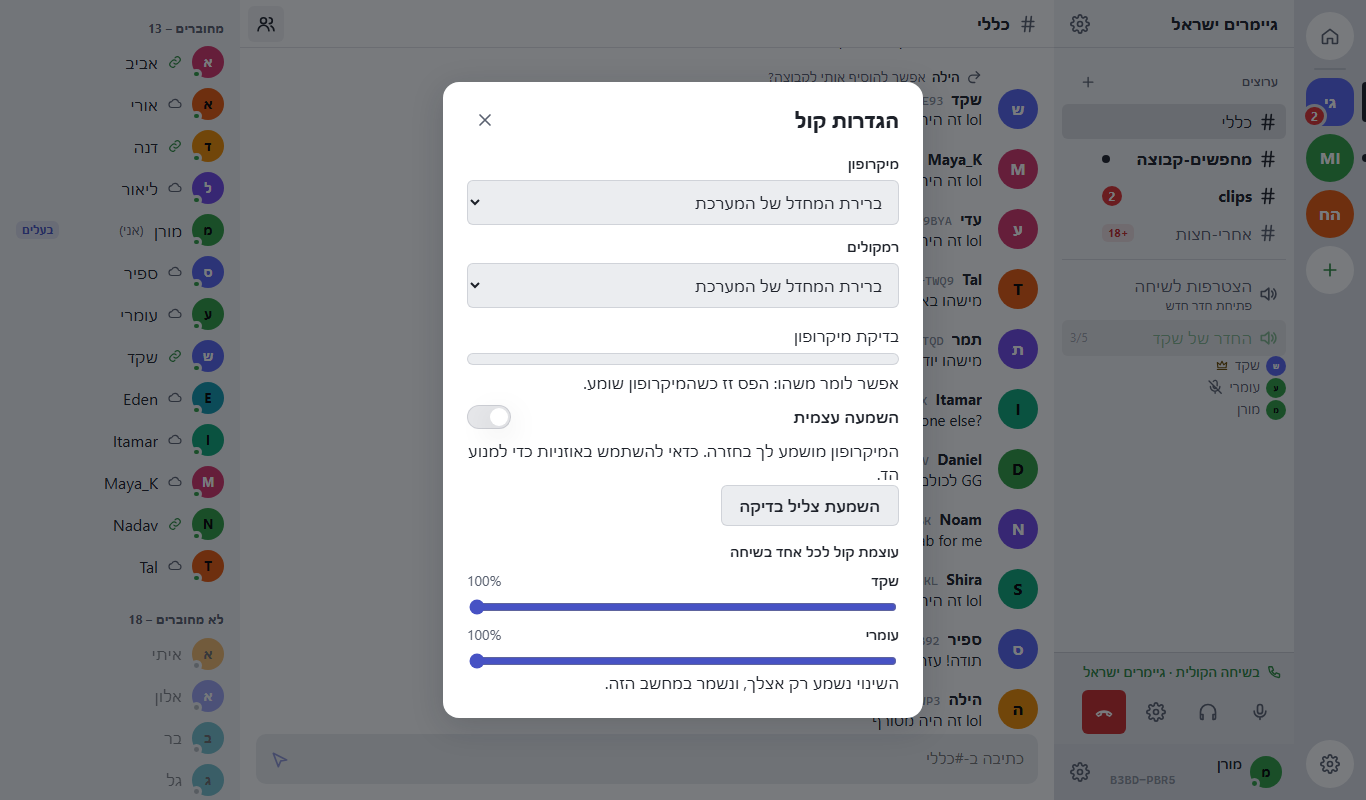
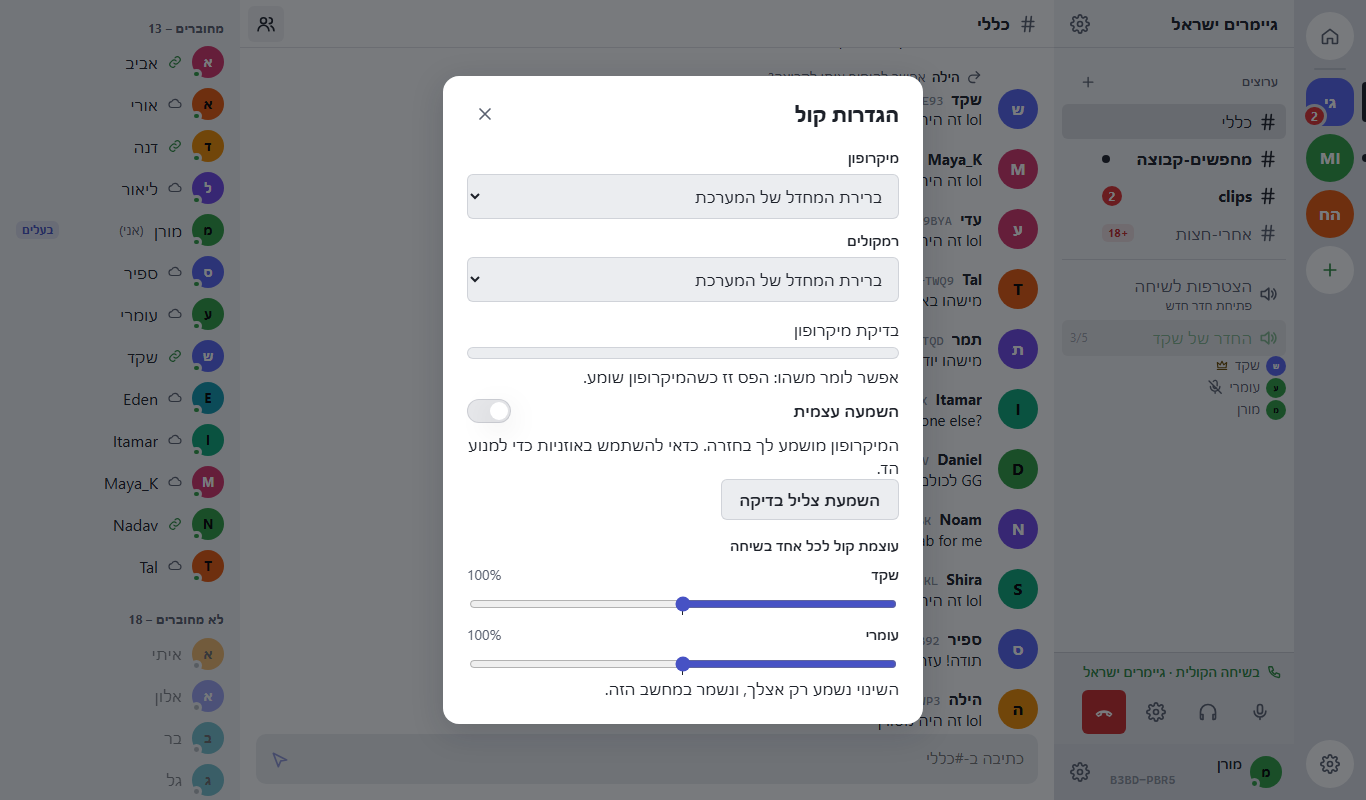
fix(voice): the 100% tick on the 0-200% sliders; screenshot 447 re-taken (UX on #440)
The sliders are native range inputs, so the thumb and fill follow
value/max (and mirror in RTL); the old 447 came from #438, where the max
was 100%. Here, at 100% of 200% the thumb sits in the middle. A datalist
draws the 100% tick on every volume slider.

diff --git a/ui/src/screens/shell/VoiceRooms.tsx b/ui/src/screens/shell/VoiceRooms.tsx
@@ -12,7 +12,7 @@ import { useContextMenu, type MenuItem } from '../../components/ContextMenu';
 import { CrownIcon, MicOffIcon, SpeakerIcon } from '../../components/icons';
 import { isCoreError, useCore, type Id, type Member, type ServerSummary, type VoiceRoom } from '../../core';
 import { VOICE_ROOM_LIMIT_MAX, VOICE_ROOM_NAME_MAX, VOICE_ROOMS_MAX } from '../../core/sanitize';
-import { CallError, codeOf, FAILURE_TEXT, ipNoticeSeen, rememberIpNotice, type CallEngine } from './CallBar';
+import { CallError, codeOf, FAILURE_TEXT, ipNoticeSeen, rememberIpNotice, VOLUME_TICKS, VolumeTicks, type CallEngine } from './CallBar';
 
 const NO_MEMBERS: Member[] = [];
 const NO_ROOMS: VoiceRoom[] = [];
@@ -303,6 +303,7 @@ export function VoiceRooms({ server, myId, engine }: { server: ServerSummary; my
               min={0}
               max={200}
               step={10}
+              list={VOLUME_TICKS}
               value={volumeOf(volumeFor.id)}
               aria-valuetext={intl.formatNumber(volumeOf(volumeFor.id) / 100, { style: 'percent' })}
               onChange={(e) => engine.setVolume(volumeFor.id, Number(e.target.value))}
@@ -312,6 +313,7 @@ export function VoiceRooms({ server, myId, engine }: { server: ServerSummary; my
         <p className="hint">
           <FormattedMessage id="call.volumesHint" />
         </p>
+        <VolumeTicks />
       </Dialog>
 
       <Dialog

diff --git a/ui/src/screens/shell/CallBar.tsx b/ui/src/screens/shell/CallBar.tsx
@@ -366,6 +366,7 @@ function VoiceSettings({
                   min={0}
                   max={200}
                   step={10}
+                  list={VOLUME_TICKS}
                   value={pct}
                   aria-valuetext={text}
                   onChange={(e) => engine.setVolume(o.id, Number(e.target.value))}
@@ -376,9 +377,20 @@ function VoiceSettings({
           <p className="hint">
             <FormattedMessage id="call.volumesHint" />
           </p>
+          <VolumeTicks />
         </fieldset>
       )}
     </Dialog>
+  );
+}
+
+/** G-73: the 100% mark on the 0–200% volume sliders (a tick Chromium draws on the track). */
+export const VOLUME_TICKS = 'volume-ticks-100';
+export function VolumeTicks() {
+  return (
+    <datalist id={VOLUME_TICKS}>
+      <option value={100} />
+    </datalist>
   );
 }
 

diff --git a/ui/src/test/voice.test.tsx b/ui/src/test/voice.test.tsx
@@ -210,6 +210,8 @@ describe('G-73 v2: the roster menu (0–200%, mute for me)', () => {
     const slider = within(screen.getByRole('dialog', { name: /^Volume: / })).getByRole('slider') as HTMLInputElement;
     expect(slider.max).toBe('200');
     expect(slider.step).toBe('10');
+    // The 100% tick, in the middle of the track.
+    expect([...(slider.list?.options ?? [])].map((o) => o.value)).toEqual(['100']);
     await act(async () => {
       fireEvent.change(slider, { target: { value: '160' } });
     });
